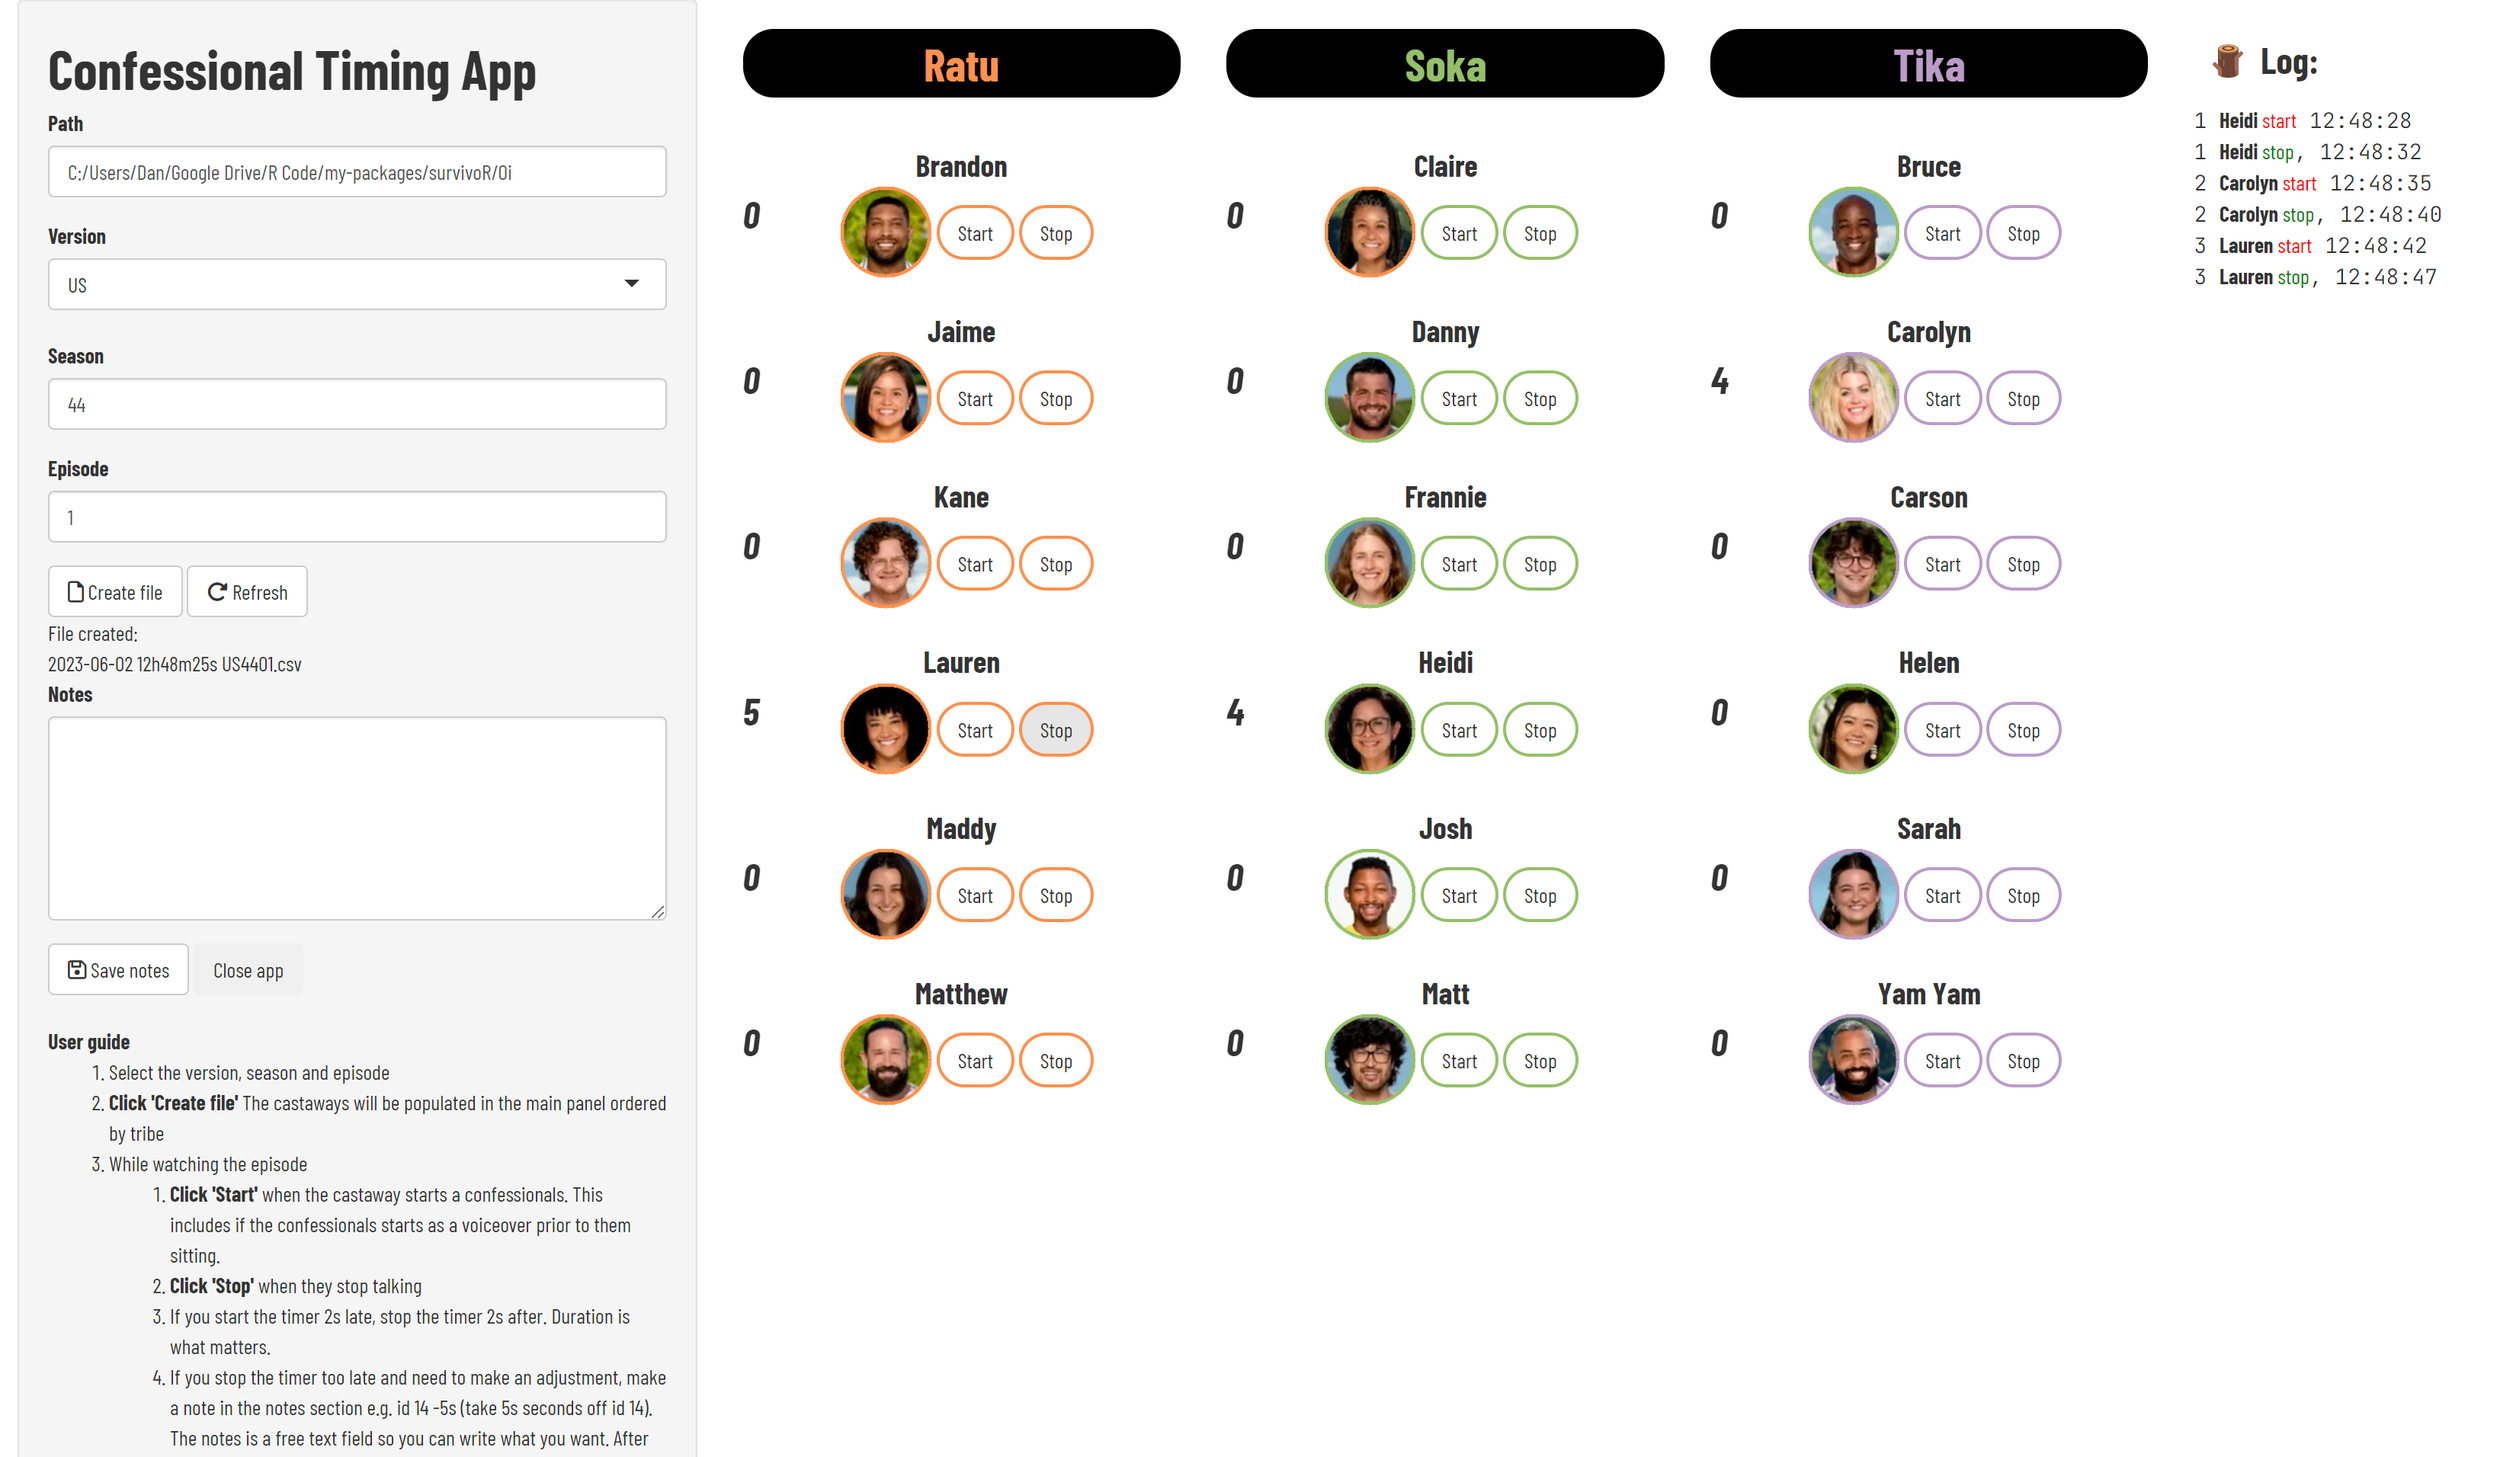
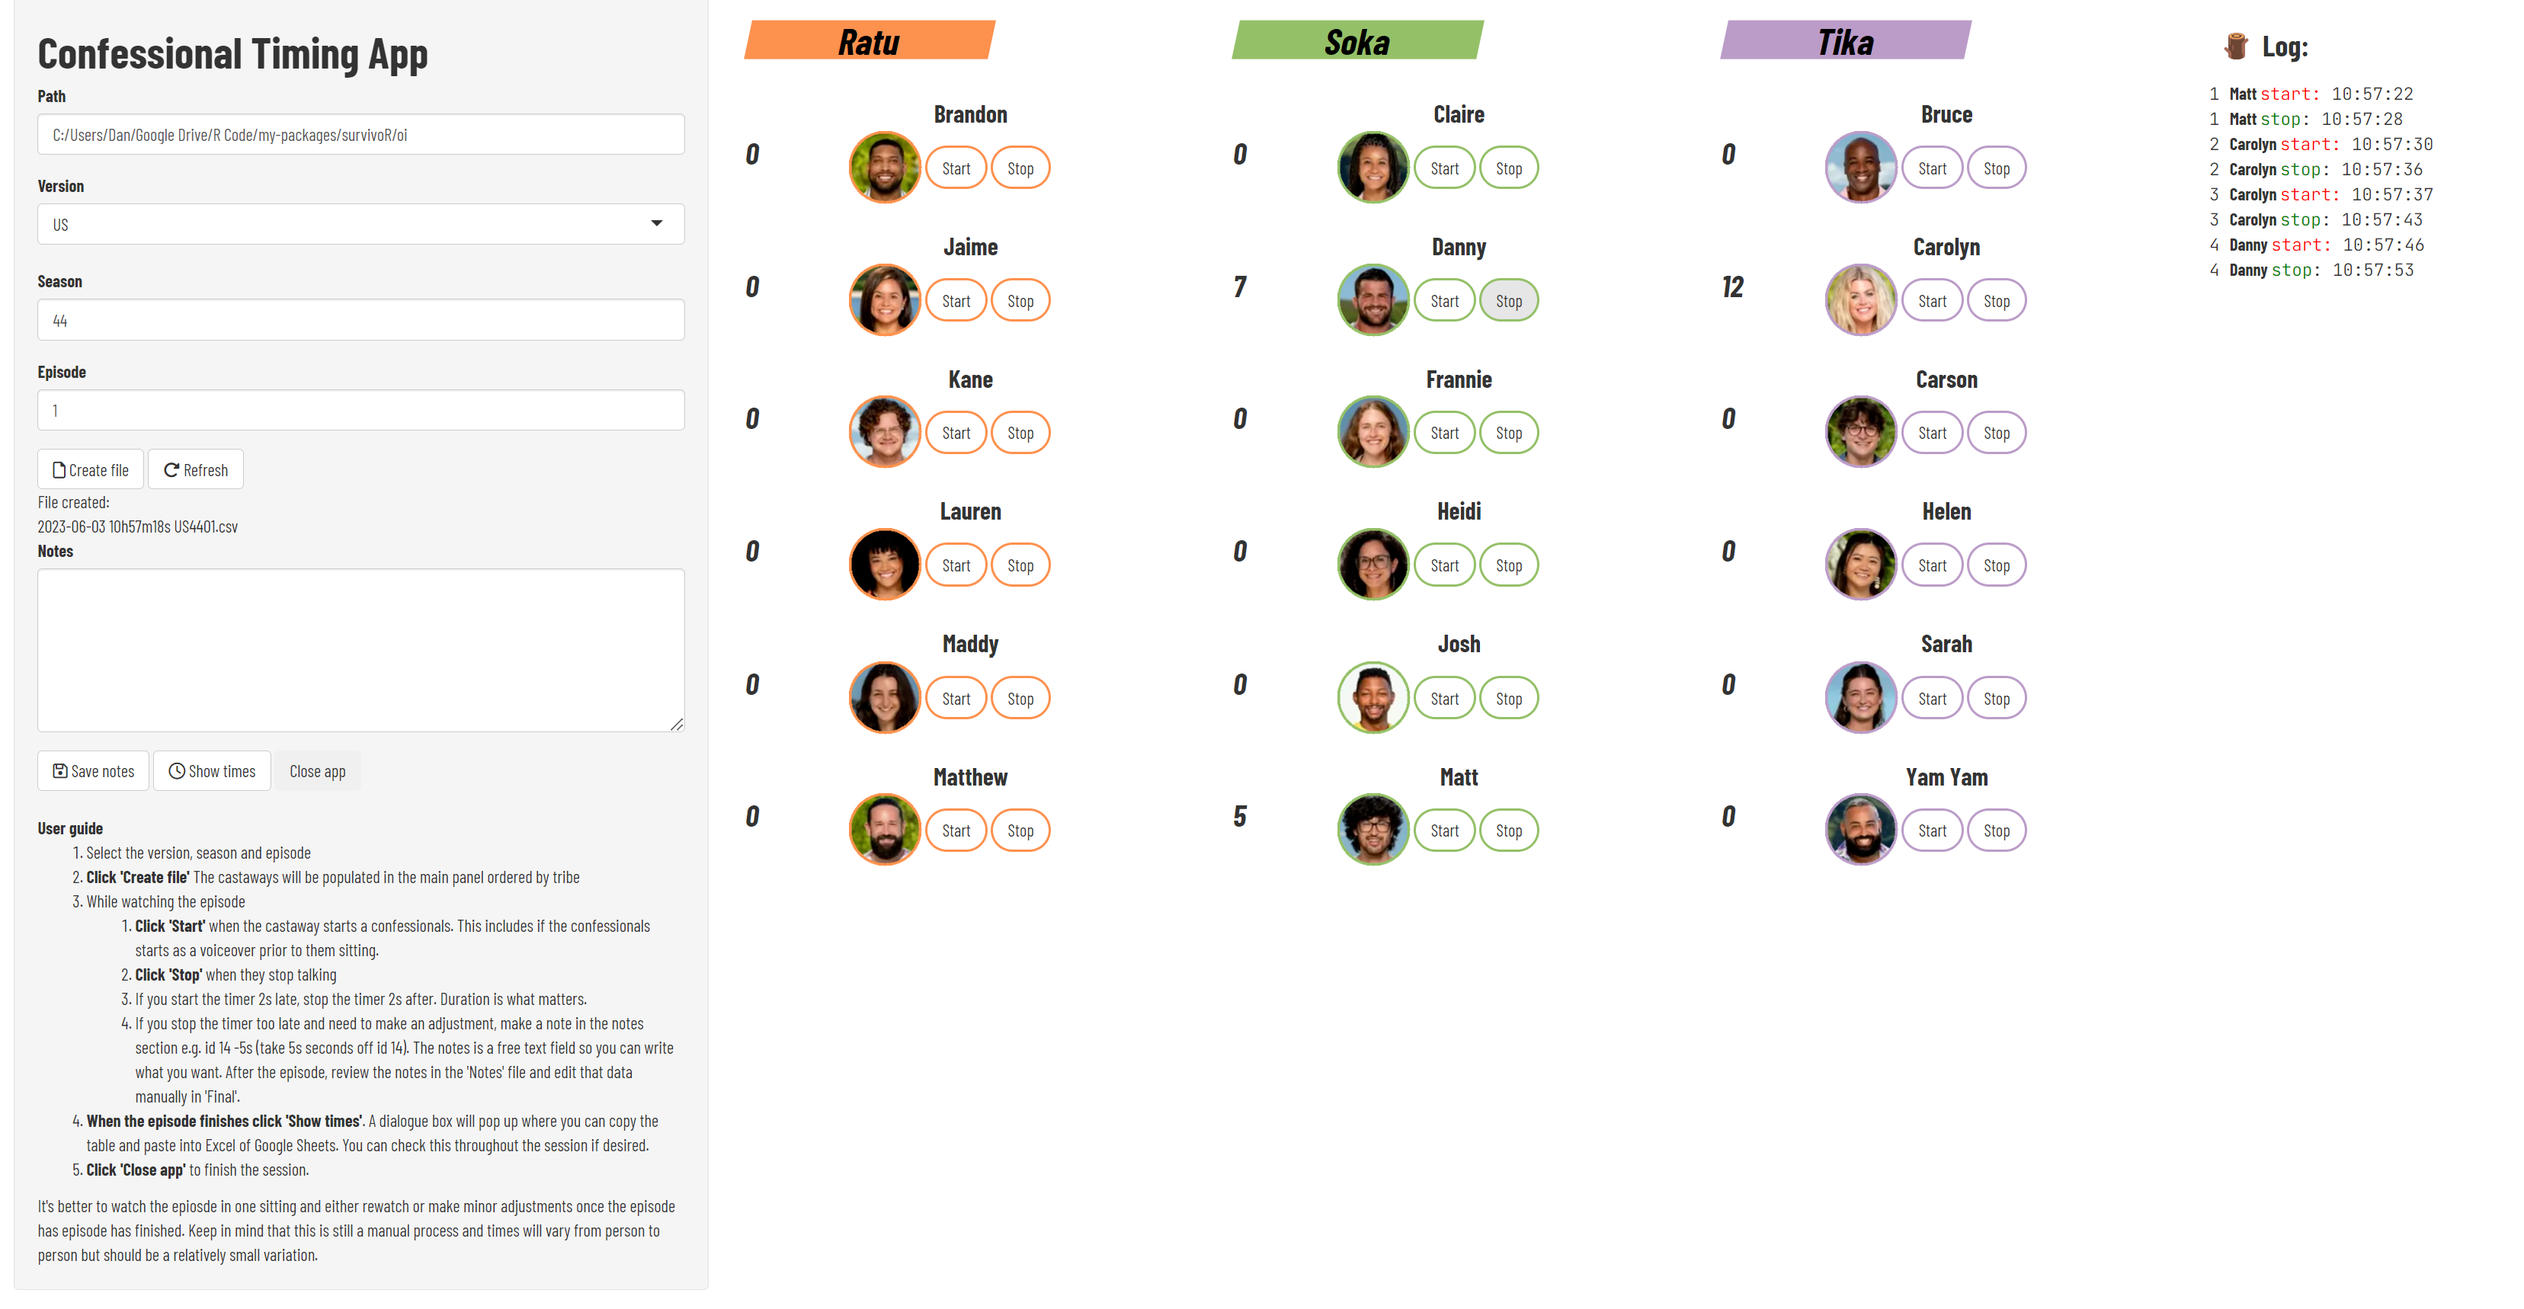
DEV updating examples and css

diff --git a/inst/confessionalDash/www/styles.css b/inst/confessionalDash/www/styles.css
@@ -12,7 +12,7 @@
   border-color: #000000;
 }
 
-.hdr-bg {
+.hdr-bg1 {
   font-weight: 900;
   background-color: #000000;
   border-radius: 20px;
@@ -29,4 +29,17 @@
 
 * {
   font-family: 'Barlow', sans-serif;
+}
+
+.hdr-bg {
+  position: relative;
+  font-weight: 900;
+  transform: skew(-12deg) translateX(-10%);
+  left: 7%;
+  bottom: 16px;
+  width: 200px;
+  height: 32px;
+  color: rgb(0, 0, 0);
+  text-align: center;
+  text-transform: translateY(50%);
 }
